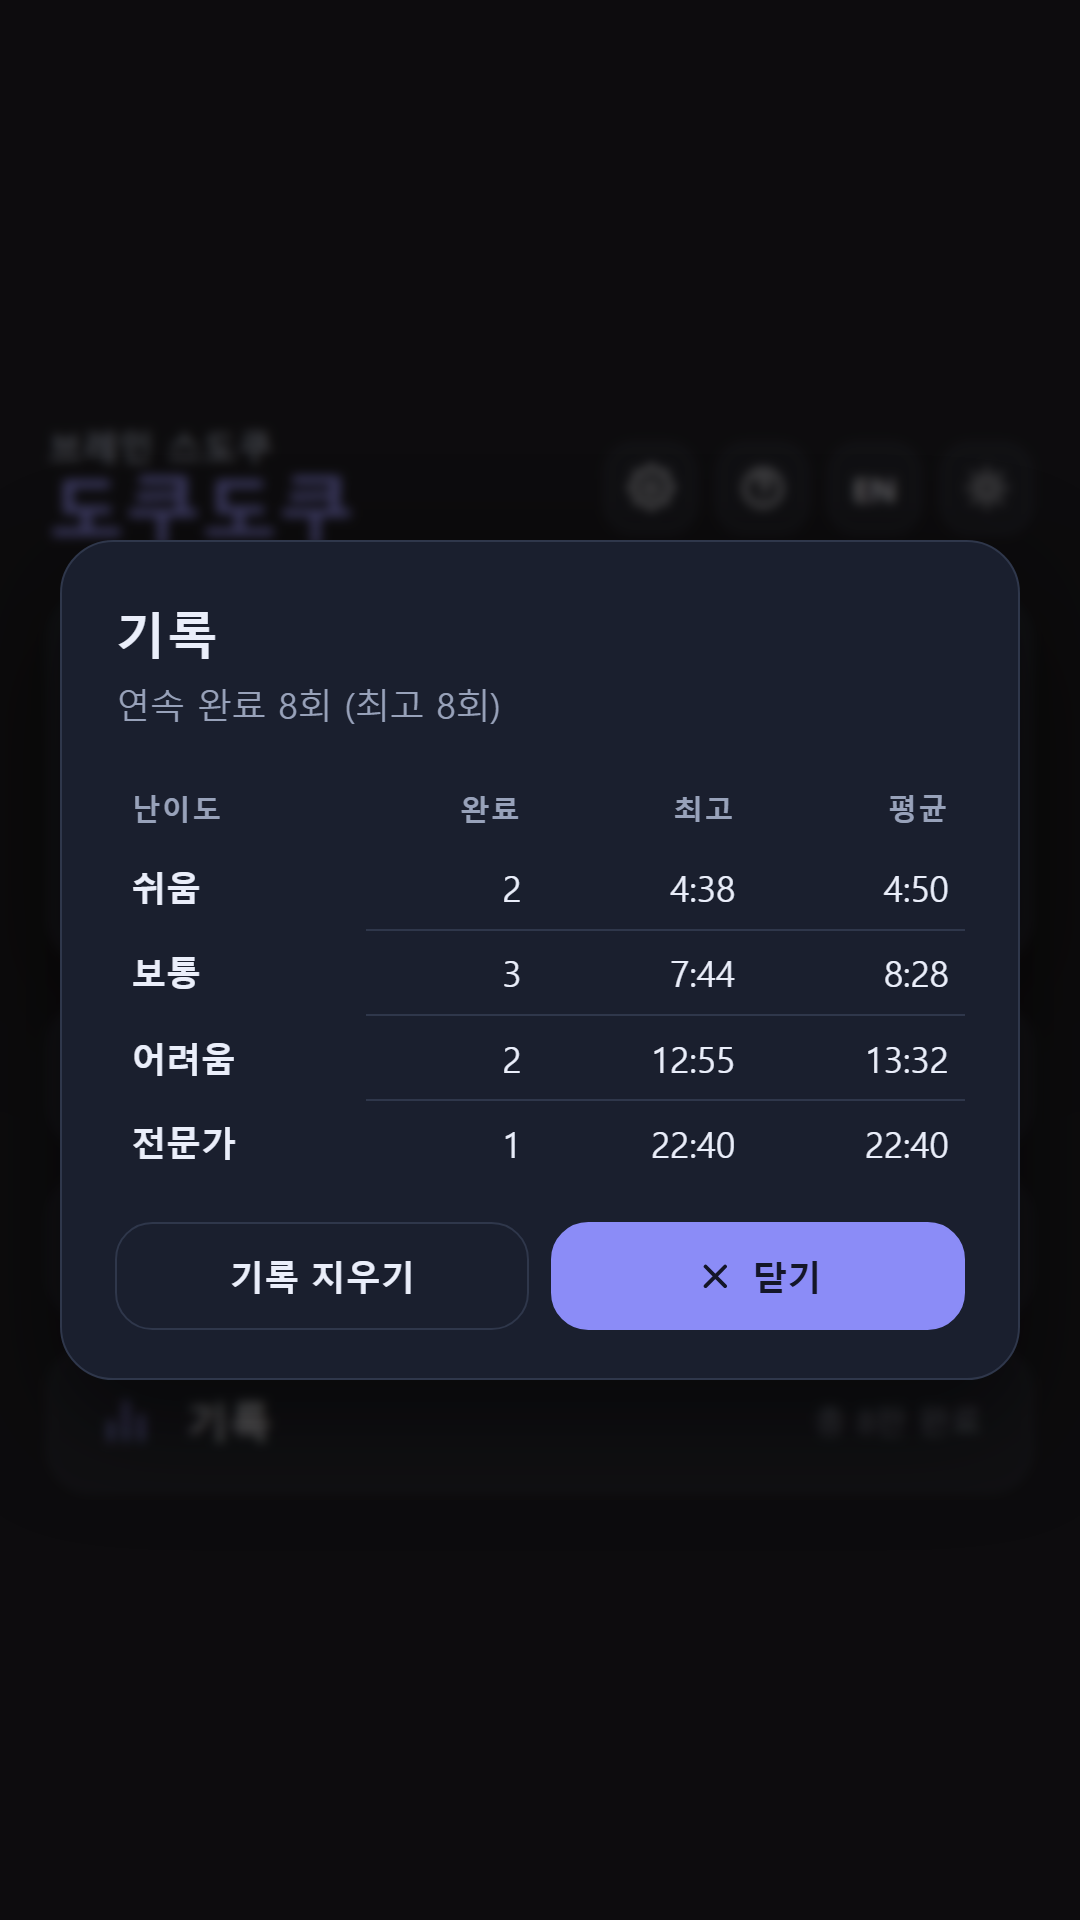
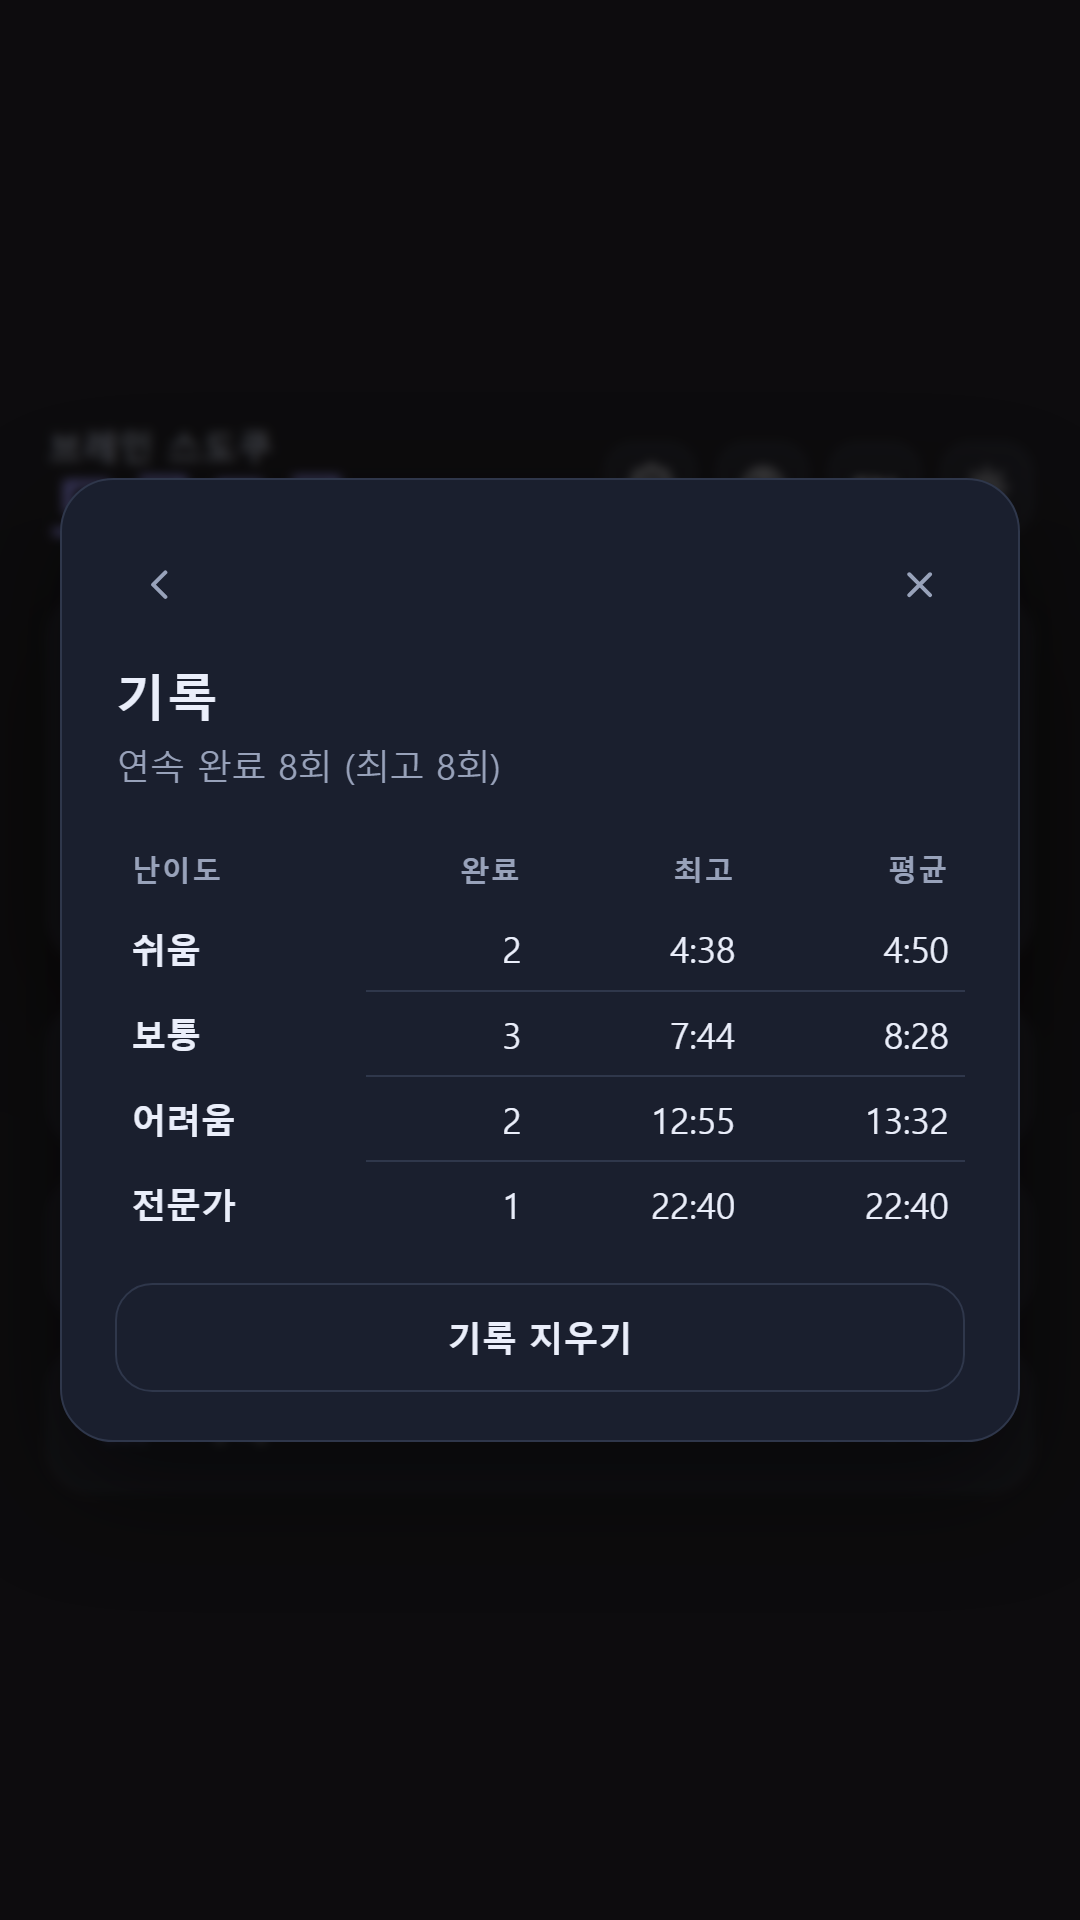
versionCode 11 (2.0) — 설정 확장·화면 정리 반영, 스토어 스크린샷 재촬영
Claude-Session: https://claude.ai/code/session_01WmQVhUnsNdVUHnQAEa6Dzo

diff --git a/sudoku/BACKLOG.md b/sudoku/BACKLOG.md
@@ -72,7 +72,7 @@
 |---|---|
 | ~~`INITIAL_COINS`~~ | **완료** — 10 으로 낮췄다. 힌트가 어떤 것인지 겪어 볼 만큼이면서 매 판 힌트로 푸는 습관이 들 만큼은 아닌 값. 그 뒤로는 한 판 끝낼 때마다 하나씩 번다 |
 | ~~스토어 자료~~ | **완료** — 스크린샷을 한국어 7장 + 영어 7장으로 다시 찍었다(홈 · 힌트 · 게임 · 데일리 · 다크 · 완료 · 기록). 규격도 고쳤다: 예전 864×1920 은 종횡비 2.22:1 이라 Play 의 2:1 제한을 벗어나 있었고, 지금은 1080×1920 이다. `capture.sh` / `shots.html` 로 언제든 다시 찍는다. 영어용 그래픽 이미지(`feature-graphic-en.png`)도 새로 만들었다(그전에는 한글이 박힌 이미지를 영어 등록정보에 쓰게 되어 있었다). 등록정보 문안도 데일리·점수·코인·자동 메모·설정을 넣어 다시 썼다 |
-| `versionCode` | 업로드할 때마다 올린다. **지금은 10 (`versionName 1.9`)** — 위 세 가지를 반영해 빌드해 두었다 |
+| `versionCode` | 업로드할 때마다 올린다. **지금은 11 (`versionName 2.0`)** — 위 세 가지를 반영해 빌드해 두었다 |
 
 ## 2군에 들어가기 전에 알아둘 것
 
